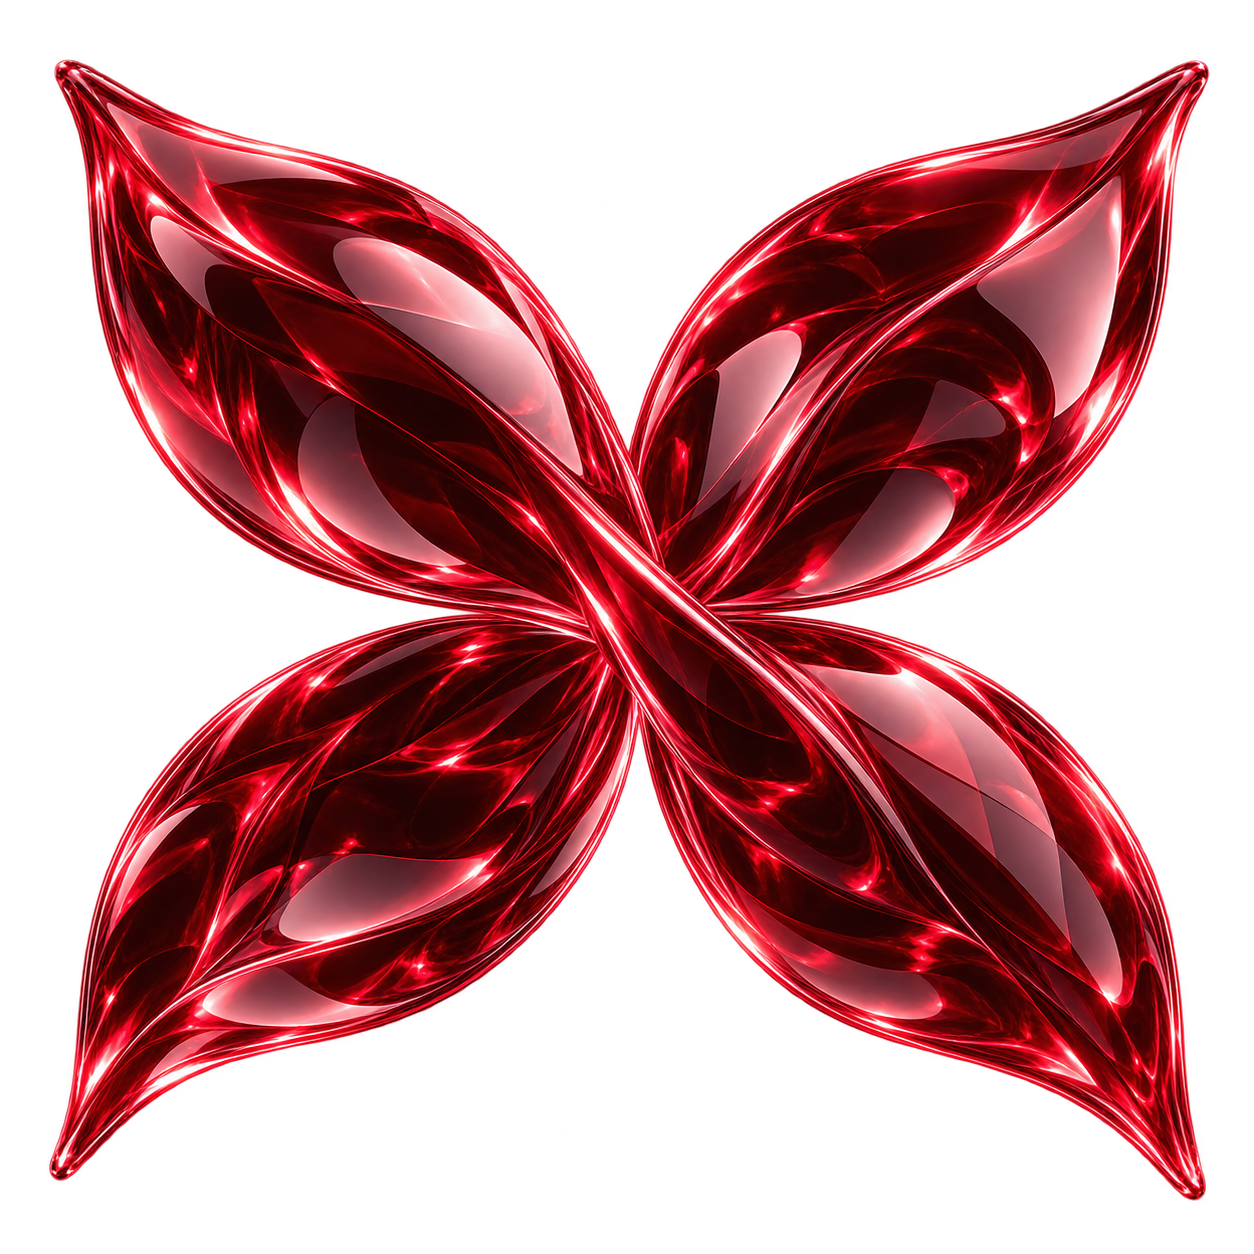
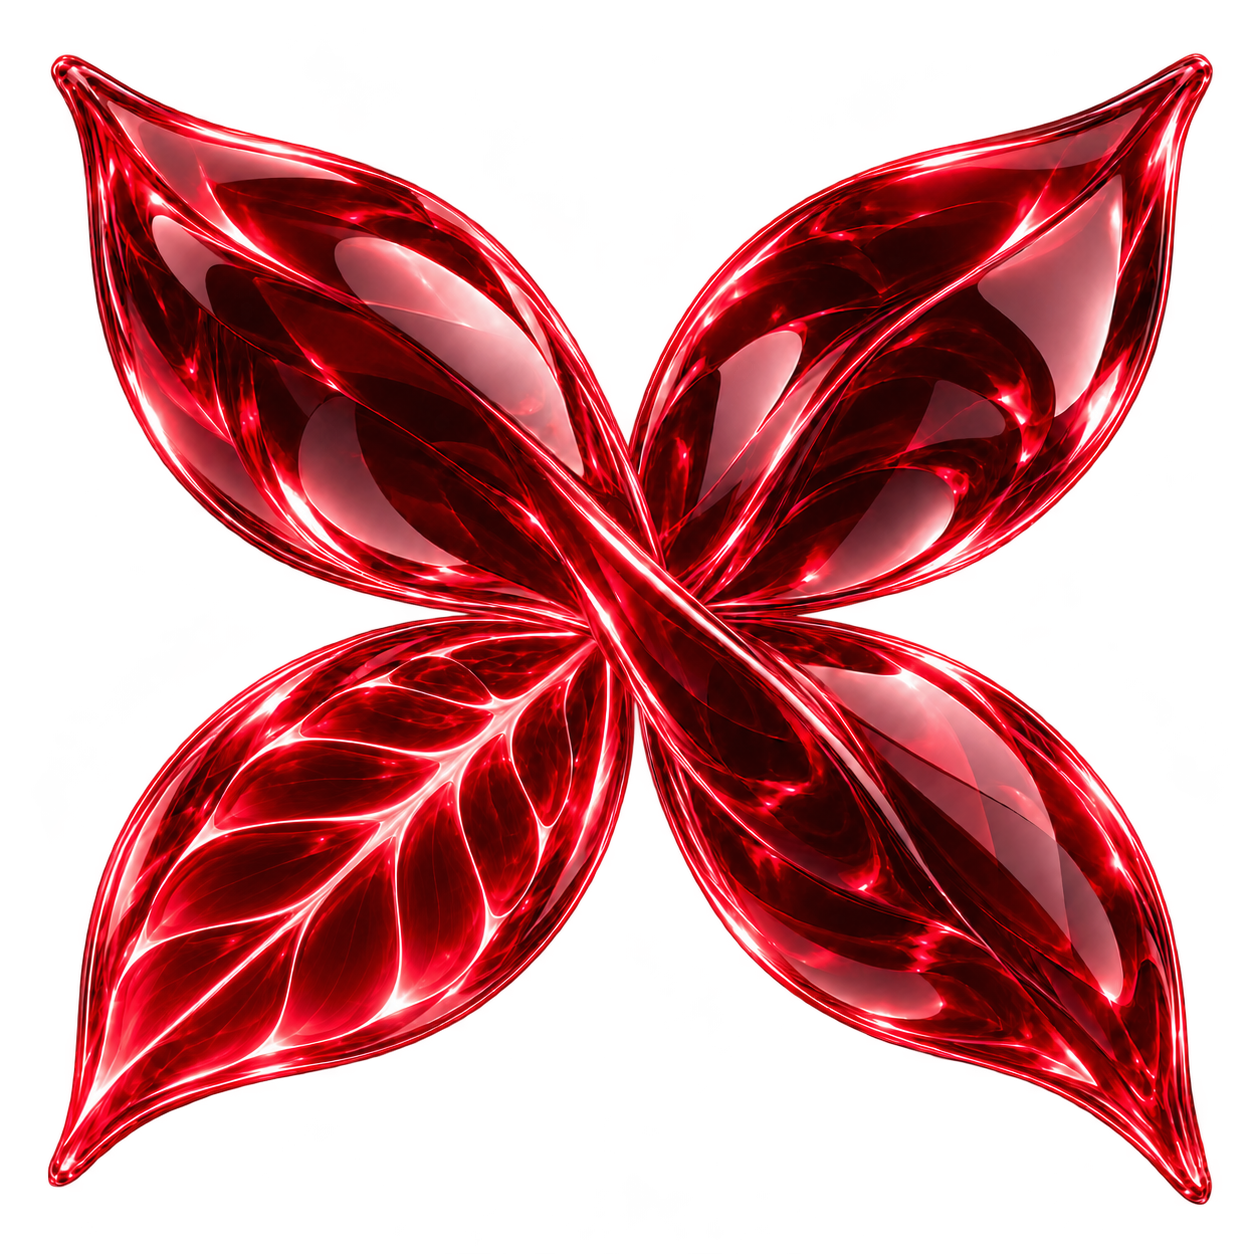
done

diff --git a/about.html b/about.html
@@ -627,11 +627,11 @@
     }
 
     /* ==========================================================
-       SECTION 2: STATS & PURPOSE (Our Mission / Our Vision)
+       SECTION 1: STATS & PURPOSE (Our Mission / Our Vision)
     ========================================================== */
     .about-stats-section {
       position: relative;
-      padding: clamp(30px, 4vw, 60px) 0 clamp(90px, 10vw, 140px);
+      padding: clamp(120px, 12vw, 150px) 0 clamp(90px, 10vw, 140px);
       width: 100%;
     }
 
@@ -1590,42 +1590,26 @@
   <!-- MAIN ABOUT CONTENT AREA -->
   <main class="about-main">
 
-    <!-- SECTION 1: HERO / INTRO (Matches uploaded screenshot) -->
-    <section class="about-hero-section" id="about-intro">
-      <div class="about-container">
-
-        <!-- Top Row: Headline & Narrative Statement -->
-        <div class="about-header-row mo mo-fade">
-          <h1 class="about-title">About <span class="about-title-grad">Us</span></h1>
-          <div class="about-lead">
-            <p>We are committed to creating simple and powerful<br class="desktop-br">products that transform ideas into
-              real experiences.<br class="desktop-br">We design, develop, and launch apps that people love.</p>
-          </div>
-        </div>
-
-      </div>
-    </section>
-
-    <!-- SECTION 2: STATS & PURPOSE (Our Mission / Our Vision) -->
+    <!-- SECTION 1: STATS & PURPOSE (Our Mission / Our Vision) -->
     <section class="about-stats-section" id="about-stats">
       <div class="about-container">
 
         <!-- Top Stats Strip: 100+ Apps Built & Launched, 20+ Global Clients, 98% Satisfaction, 4+ Years -->
         <div class="about-stats-grid mo mo-fade">
           <div class="about-stat-item">
-            <div class="about-stat-val">100<span class="accent">+</span></div>
+            <div class="about-stat-val"><span class="about-stat-count" data-count-to="100">100</span><span class="accent">+</span></div>
             <div class="about-stat-lbl">Apps Built &amp; Launched</div>
           </div>
           <div class="about-stat-item">
-            <div class="about-stat-val">20<span class="accent">+</span></div>
+            <div class="about-stat-val"><span class="about-stat-count" data-count-to="20">20</span><span class="accent">+</span></div>
             <div class="about-stat-lbl">Global Clients</div>
           </div>
           <div class="about-stat-item">
-            <div class="about-stat-val">98<span class="accent">%</span></div>
+            <div class="about-stat-val"><span class="about-stat-count" data-count-to="98">98</span><span class="accent">%</span></div>
             <div class="about-stat-lbl">Client Satisfaction Rate</div>
           </div>
           <div class="about-stat-item">
-            <div class="about-stat-val">4<span class="accent">+</span></div>
+            <div class="about-stat-val"><span class="about-stat-count" data-count-to="4">4</span><span class="accent">+</span></div>
             <div class="about-stat-lbl">Years of Experience</div>
           </div>
         </div>
@@ -2018,6 +2002,39 @@
         updateHorizontalScroll();
         setTimeout(updateHorizontalScroll, 100);
       }
+    })();
+  </script>
+  <script>
+    (() => {
+      const counters = document.querySelectorAll('.about-stat-count');
+      const stats = document.querySelector('.about-stats-grid');
+      const reduceMotion = window.matchMedia('(prefers-reduced-motion: reduce)').matches;
+
+      if (!stats || !counters.length || reduceMotion || !('IntersectionObserver' in window)) return;
+
+      const observer = new IntersectionObserver((entries) => {
+        if (!entries.some((entry) => entry.isIntersecting)) return;
+        observer.disconnect();
+
+        counters.forEach((counter) => {
+          const target = Number(counter.dataset.countTo);
+          const duration = 1600;
+          const startTime = performance.now();
+
+          function updateCount(now) {
+            const progress = Math.min((now - startTime) / duration, 1);
+            const easedProgress = 1 - Math.pow(1 - progress, 3);
+            counter.textContent = String(Math.round(target * easedProgress));
+
+            if (progress < 1) requestAnimationFrame(updateCount);
+          }
+
+          counter.textContent = '0';
+          requestAnimationFrame(updateCount);
+        });
+      }, { threshold: 0.35 });
+
+      observer.observe(stats);
     })();
   </script>
   <script src="assets/js/lenis.min.js"></script>

diff --git a/contact.html b/contact.html
@@ -1062,7 +1062,7 @@
         <div class="inquiry-left mo-reveal">
           <!-- <p class="contact-eyebrow">We're here to help.</p>
           <h1 class="contact-main-title">Get In Touch</h1> -->
-          <div class="contact-visual-wrap">
+          <div class="contact-visual-wrap mo-float">
             <div class="contact-visual-glow" aria-hidden="true"></div>
             <img src="assets/images/contact/contact.png" 
                  alt="Limons contact visual" 
